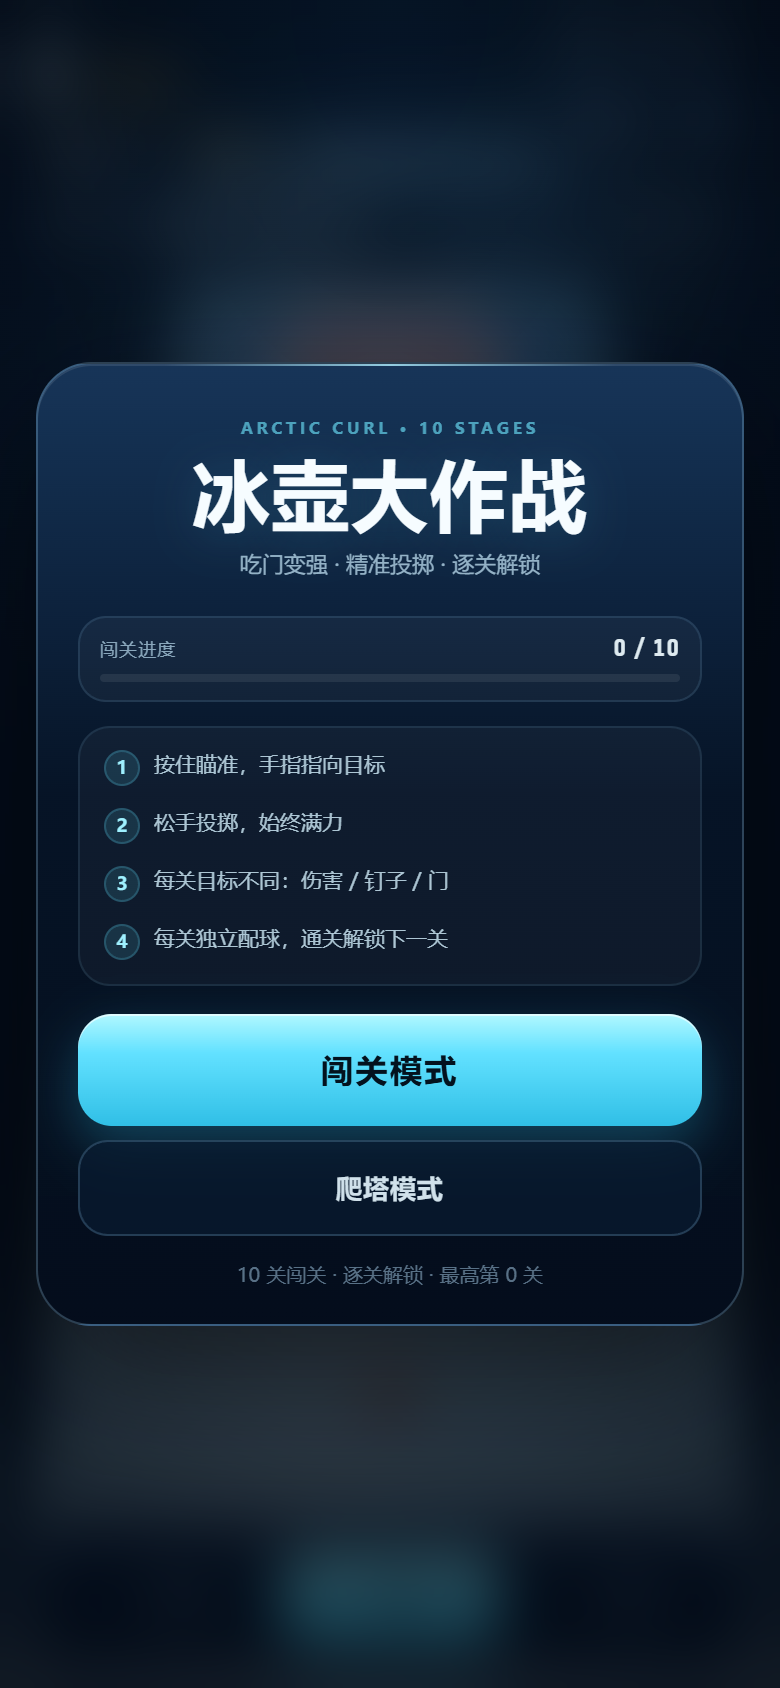
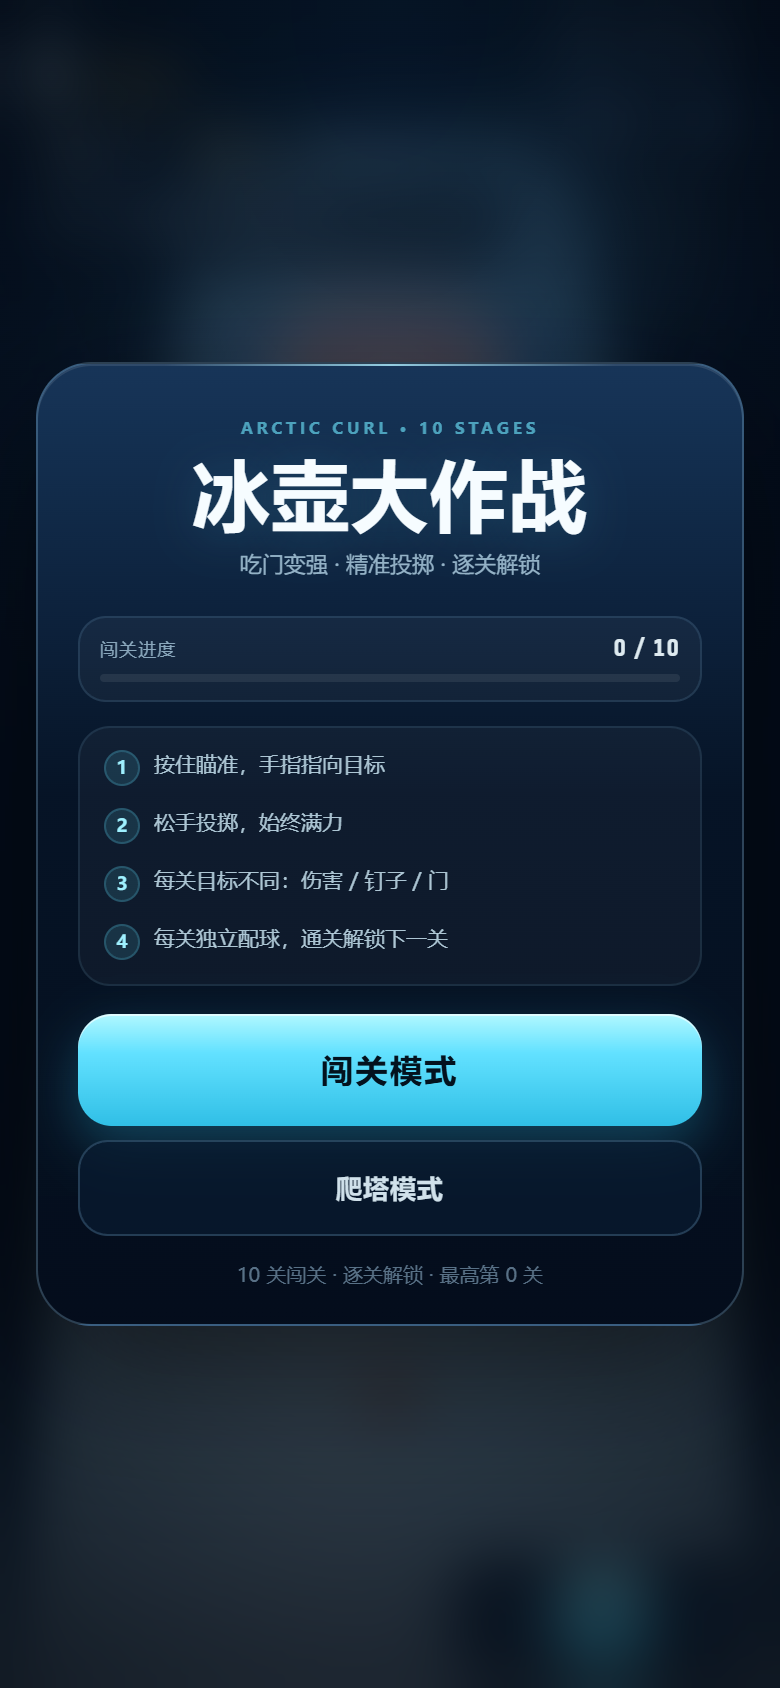
v0.8-layout: replace full-width top/bottom HUD bars with compact objective pill and floating bottom controls; remove tower monster blob

diff --git a/dist/curling-gates.html b/dist/curling-gates.html
@@ -1029,12 +1029,14 @@ button:focus-visible {
 }
 
 .objective-card {
-  margin-top: 6px;
-  padding: 7px 10px 7px;
-  border-radius: 15px;
+  width: max-content;
+  max-width: min(100%, 318px);
+  margin-top: 5px;
+  padding: 5px 9px 6px;
+  border-radius: 12px;
   border: 1px solid rgba(151, 213, 255, 0.16);
-  background: linear-gradient(180deg, rgba(10, 30, 55, 0.72), rgba(5, 17, 33, 0.62));
-  box-shadow: 0 8px 26px rgba(0, 0, 0, 0.22), inset 0 1px 0 rgba(255, 255, 255, 0.06);
+  background: linear-gradient(180deg, rgba(10, 30, 55, 0.76), rgba(5, 17, 33, 0.64));
+  box-shadow: 0 6px 18px rgba(0, 0, 0, 0.2), inset 0 1px 0 rgba(255, 255, 255, 0.06);
   backdrop-filter: blur(12px);
 }
 
@@ -1047,21 +1049,22 @@ button:focus-visible {
 
 #targetLabel {
   min-width: 0;
+  max-width: 218px;
   margin: 0;
   overflow: hidden;
   text-overflow: ellipsis;
   white-space: nowrap;
-  font-size: 11px;
+  font-size: 10px;
   font-weight: 800;
-  letter-spacing: 0.015em;
+  letter-spacing: 0.005em;
   color: rgba(230, 247, 255, 0.92);
   font-variant-numeric: tabular-nums;
 }
 
 #targetWrap {
   width: 100%;
-  height: 5px;
-  margin-top: 6px;
+  height: 4px;
+  margin-top: 4px;
   border-radius: 999px;
   background: rgba(255, 255, 255, 0.09);
   box-shadow: inset 0 1px 3px rgba(0, 0, 0, 0.3);
@@ -1110,31 +1113,38 @@ button:focus-visible {
   z-index: 4;
 }
 
+#hint {
+  display: none !important;
+}
+
 .bottom-dock {
-  pointer-events: auto;
+  pointer-events: none;
   display: flex;
-  flex-direction: column;
-  gap: 7px;
-  padding: 8px;
-  border-radius: 21px;
-  border: 1px solid rgba(151, 213, 255, 0.16);
-  background: linear-gradient(180deg, rgba(12, 32, 58, 0.82), rgba(4, 15, 30, 0.9));
-  box-shadow: 0 -10px 30px rgba(0, 0, 0, 0.24), inset 0 1px 0 rgba(255, 255, 255, 0.07);
-  backdrop-filter: blur(14px) saturate(1.1);
+  align-items: flex-end;
+  gap: 8px;
+  padding: 0;
+  border: 0;
+  border-radius: 0;
+  background: transparent;
+  box-shadow: none;
+  backdrop-filter: none;
 }
 
 .ball-bar {
+  flex: 0 1 auto;
+  max-width: calc(100% - 158px);
   gap: 6px;
   padding-bottom: 0;
   min-height: 44px;
   align-items: stretch;
+  pointer-events: auto;
 }
 
 .ball-chip {
   flex: 0 0 auto;
-  min-width: 86px;
+  min-width: 78px;
   height: 44px;
-  padding: 4px 10px;
+  padding: 4px 9px;
   border-radius: 12px;
   border: 1px solid rgba(151, 213, 255, 0.18);
   background: linear-gradient(180deg, rgba(16, 39, 68, 0.9), rgba(6, 20, 38, 0.9));
@@ -1142,7 +1152,7 @@ button:focus-visible {
   flex-direction: row;
   align-items: center;
   justify-content: center;
-  gap: 6px;
+  gap: 5px;
   box-shadow: inset 0 1px 0 rgba(255, 255, 255, 0.06);
   transition: transform 0.12s ease, border-color 0.15s ease, background 0.15s ease;
 }
@@ -1176,28 +1186,35 @@ button:focus-visible {
 }
 
 #spinBar {
+  flex: 0 0 148px;
+  margin-left: auto;
   display: flex;
   gap: 4px;
   padding: 4px;
   border-radius: 15px;
-  background: rgba(2, 12, 25, 0.5);
-  border: 1px solid rgba(151, 213, 255, 0.1);
+  background: rgba(5, 19, 37, 0.82);
+  border: 1px solid rgba(151, 213, 255, 0.14);
+  box-shadow: 0 6px 18px rgba(0, 0, 0, 0.26);
+  backdrop-filter: blur(10px);
+  pointer-events: auto;
 }
 
 .spin-btn {
   flex: 1;
   height: 44px;
+  padding: 0;
   border-radius: 11px;
   border: 0;
   background: transparent;
   color: rgba(181, 214, 233, 0.78);
-  font-size: 12px;
+  font-size: 11px;
   font-weight: 800;
   display: inline-flex;
   align-items: center;
   justify-content: center;
-  gap: 5px;
-  letter-spacing: 0.03em;
+  gap: 3px;
+  letter-spacing: 0.01em;
+  white-space: nowrap;
   transition: background 0.15s ease, color 0.15s ease, transform 0.1s ease;
 }
 
@@ -5618,7 +5635,6 @@ button:focus-visible {
     }
     drawTrack();
     drawHouse();
-    if (isRunMode()) drawTowerMonster();
     drawGates();
     drawPins();
     drawStones();

diff --git a/styles.css b/styles.css
@@ -1019,12 +1019,14 @@ button:focus-visible {
 }
 
 .objective-card {
-  margin-top: 6px;
-  padding: 7px 10px 7px;
-  border-radius: 15px;
+  width: max-content;
+  max-width: min(100%, 318px);
+  margin-top: 5px;
+  padding: 5px 9px 6px;
+  border-radius: 12px;
   border: 1px solid rgba(151, 213, 255, 0.16);
-  background: linear-gradient(180deg, rgba(10, 30, 55, 0.72), rgba(5, 17, 33, 0.62));
-  box-shadow: 0 8px 26px rgba(0, 0, 0, 0.22), inset 0 1px 0 rgba(255, 255, 255, 0.06);
+  background: linear-gradient(180deg, rgba(10, 30, 55, 0.76), rgba(5, 17, 33, 0.64));
+  box-shadow: 0 6px 18px rgba(0, 0, 0, 0.2), inset 0 1px 0 rgba(255, 255, 255, 0.06);
   backdrop-filter: blur(12px);
 }
 
@@ -1037,21 +1039,22 @@ button:focus-visible {
 
 #targetLabel {
   min-width: 0;
+  max-width: 218px;
   margin: 0;
   overflow: hidden;
   text-overflow: ellipsis;
   white-space: nowrap;
-  font-size: 11px;
+  font-size: 10px;
   font-weight: 800;
-  letter-spacing: 0.015em;
+  letter-spacing: 0.005em;
   color: rgba(230, 247, 255, 0.92);
   font-variant-numeric: tabular-nums;
 }
 
 #targetWrap {
   width: 100%;
-  height: 5px;
-  margin-top: 6px;
+  height: 4px;
+  margin-top: 4px;
   border-radius: 999px;
   background: rgba(255, 255, 255, 0.09);
   box-shadow: inset 0 1px 3px rgba(0, 0, 0, 0.3);
@@ -1100,31 +1103,38 @@ button:focus-visible {
   z-index: 4;
 }
 
+#hint {
+  display: none !important;
+}
+
 .bottom-dock {
-  pointer-events: auto;
+  pointer-events: none;
   display: flex;
-  flex-direction: column;
-  gap: 7px;
-  padding: 8px;
-  border-radius: 21px;
-  border: 1px solid rgba(151, 213, 255, 0.16);
-  background: linear-gradient(180deg, rgba(12, 32, 58, 0.82), rgba(4, 15, 30, 0.9));
-  box-shadow: 0 -10px 30px rgba(0, 0, 0, 0.24), inset 0 1px 0 rgba(255, 255, 255, 0.07);
-  backdrop-filter: blur(14px) saturate(1.1);
+  align-items: flex-end;
+  gap: 8px;
+  padding: 0;
+  border: 0;
+  border-radius: 0;
+  background: transparent;
+  box-shadow: none;
+  backdrop-filter: none;
 }
 
 .ball-bar {
+  flex: 0 1 auto;
+  max-width: calc(100% - 158px);
   gap: 6px;
   padding-bottom: 0;
   min-height: 44px;
   align-items: stretch;
+  pointer-events: auto;
 }
 
 .ball-chip {
   flex: 0 0 auto;
-  min-width: 86px;
+  min-width: 78px;
   height: 44px;
-  padding: 4px 10px;
+  padding: 4px 9px;
   border-radius: 12px;
   border: 1px solid rgba(151, 213, 255, 0.18);
   background: linear-gradient(180deg, rgba(16, 39, 68, 0.9), rgba(6, 20, 38, 0.9));
@@ -1132,7 +1142,7 @@ button:focus-visible {
   flex-direction: row;
   align-items: center;
   justify-content: center;
-  gap: 6px;
+  gap: 5px;
   box-shadow: inset 0 1px 0 rgba(255, 255, 255, 0.06);
   transition: transform 0.12s ease, border-color 0.15s ease, background 0.15s ease;
 }
@@ -1166,28 +1176,35 @@ button:focus-visible {
 }
 
 #spinBar {
+  flex: 0 0 148px;
+  margin-left: auto;
   display: flex;
   gap: 4px;
   padding: 4px;
   border-radius: 15px;
-  background: rgba(2, 12, 25, 0.5);
-  border: 1px solid rgba(151, 213, 255, 0.1);
+  background: rgba(5, 19, 37, 0.82);
+  border: 1px solid rgba(151, 213, 255, 0.14);
+  box-shadow: 0 6px 18px rgba(0, 0, 0, 0.26);
+  backdrop-filter: blur(10px);
+  pointer-events: auto;
 }
 
 .spin-btn {
   flex: 1;
   height: 44px;
+  padding: 0;
   border-radius: 11px;
   border: 0;
   background: transparent;
   color: rgba(181, 214, 233, 0.78);
-  font-size: 12px;
+  font-size: 11px;
   font-weight: 800;
   display: inline-flex;
   align-items: center;
   justify-content: center;
-  gap: 5px;
-  letter-spacing: 0.03em;
+  gap: 3px;
+  letter-spacing: 0.01em;
+  white-space: nowrap;
   transition: background 0.15s ease, color 0.15s ease, transform 0.1s ease;
 }
 

diff --git a/game.js b/game.js
@@ -3569,7 +3569,6 @@
     }
     drawTrack();
     drawHouse();
-    if (isRunMode()) drawTowerMonster();
     drawGates();
     drawPins();
     drawStones();

diff --git a/docs/UI_DESIGN.md b/docs/UI_DESIGN.md
@@ -182,24 +182,20 @@ HUD 只保留“会影响当前决策”的信息：
 ### 5.3 游戏 HUD
 
 ```
-顶部：
-  SCORE 0   ×1.0
-  连击 0   门链 —
-  冰球 1 · 攻击 +0%
-  选关 / 重开 / 声音
+顶部左侧：得分 / 倍率 / 连击 / 门链
+顶部右上：资源 / 选关 / 重开 / 声音
+目标小胶囊：关卡名 + 目标 + 进度 + 壶数
 
-目标条：
-  第 1 关 · 伤害 0/250     第 1/1 壶
-  [progress]
-
-底部 dock：
-  [标准 ×1 Lv.1]
-  [左旋] [直投] [右旋]
+底部左侧：冰球 chip
+底部右侧：旋转分段控件
 ```
 
-- 目标条是顶部唯一横向大组件
-- 画布不再重复画 DEF 徽章
-- 底部 dock 把球条和旋转合成一个整体
+- 不再使用贯穿屏幕的上下横条
+- 顶部目标压缩成约 **238×43** 的小胶囊，不压大本营
+- 底部只有两个独立浮岛：冰球 chip 与旋转控件，高约 **54px**
+- HUD 总高度约 **134px**
+- 画布不再重复画 DEF 徽章/怪物黑球
+- 提示文字从游戏区移除（菜单负责教学），Toast 放在左下角
 - 操作区在下半屏，单手可达
 
 ### 5.4 弹层
@@ -238,12 +234,13 @@ HUD 只保留“会影响当前决策”的信息：
 
 现在：
 
-- 目标卡压缩到约 52px 高
-- HUD 总高度从约 166px 降到约 141px
+- 目标卡压缩成约 238×43 的小胶囊
+- HUD 总高度从约 **166px 降到约 134px**
 - 关卡开始不再弹 Toast；关卡名直接写进目标条
-- 提示移到左下角的小胶囊，不压冰壶
-- Toast 改为左下角，不再压大本营/中心钉子
+- 提示文字不再常驻游戏区
+- Toast 改为左下角小胶囊，不再压大本营/中心钉子
 - 画布上的 DEF 徽章删除，避免与 HUD 重复
+- 底部不再有贯穿横条，改成左侧冰球 chip + 右侧旋转浮岛
 - 冰壶、钉子、大本营全部在 HUD 下方可见
 
 ## 8. 抖音小游戏适配注意
@@ -291,7 +288,7 @@ HUD 只保留“会影响当前决策”的信息：
 
 - [x] 设计 tokens
 - [x] HUD 三段式：状态 / 目标 / 操作
-- [x] 底部 dock
+- [x] 底部浮动控制（冰球 chip + 旋转）
 - [x] 菜单进度条
 - [x] 选关进度条 + 当前关卡高亮
 - [x] 44px 触控目标

diff --git a/README.md b/README.md
@@ -68,7 +68,7 @@ dist/curling-gates.html
 ## 当前实现（v0.8）
 
 - **两种模式**：**闯关模式（10 关独立关卡）**、爬塔模式（无限随机层）
-- **UI V2**：顶部状态带 + 目标进度 + 底部操作 dock；44px 触控目标、安全区、焦点态、`prefers-reduced-motion`；详见 [`docs/UI_DESIGN.md`](docs/UI_DESIGN.md)
+- **UI V2**：顶部状态带 + 目标小胶囊 + 底部浮动控制；44px 触控目标、安全区、焦点态、`prefers-reduced-motion`；详见 [`docs/UI_DESIGN.md`](docs/UI_DESIGN.md)
 - **Art Pass**：冰壶花岗岩高光 + 彩色手柄、立柱钉子、同心大本营、玻璃感门、冰面碎晶/反射/极光背景
 - **闯关目标**：每关目标可以是伤害 / 钉子 / 门；达标立即过关
 - **始终满力**：按住只瞄准，松手立即以旧版满力 **11.5 m/s** 投掷；取消蓄力、力度条、擦冰

diff --git a/docs/TEST_REPORT.md b/docs/TEST_REPORT.md
@@ -64,7 +64,7 @@
 | 35 | 10 关完整实测 | ✅ | 使用每关预设球，从第 1 关实际投掷到第 10 关通关 |
 | 36 | UI V2 | ✅ | 状态带/目标条/底部 dock；菜单与选关进度；统一弹层 |
 | 37 | Art Pass | ✅ | 冰壶/钉子/大本营/门/赛道重绘；HUD 不再压大本营 |
-| 38 | 遮挡修正 | ✅ | HUD 高约 141px；关卡名进目标条；提示/Toast 移左下 |
+| 38 | 遮挡修正 | ✅ | HUD 高约 134px；目标小胶囊；底部无贯穿横条；提示/Toast 移左下 |
 | 39 | 触控与溢出 | ✅ | 按钮 ≥44px；390/360 宽无横向溢出 |
 | 40 | 无障碍基础 | ✅ | focus-visible、prefers-reduced-motion、文字+图标不依赖颜色 |
 | 41 | JS 报错 | ✅ | 无 pageerror / console error |
